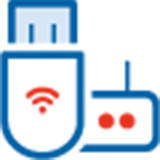
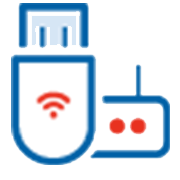
update of catOfDev

diff --git a/2nd delivery/WEBSITE/style/catOfDev.css b/2nd delivery/WEBSITE/style/catOfDev.css
@@ -65,43 +65,39 @@ body{
 
 #dev{
     position: relative;
-    padding-top: 1%;
+    padding-top: 1.5%;
     left: 30%;
 }
 
 #modem{
     position: relative;
-    padding-top: 1%;
+    margin-top: 6%;
     left: 30%;
-    width:40%;
+    width:38.2%;
     height: auto;
-    padding-bottom: 7%;
 }
 
 #tv{
     position: relative;
     left: 45%;
-    padding-bottom: 0.5%;
+    padding-bottom: 3%;
 }
 
 #outlet{
     position: relative;
     left: 30%;
-    padding-bottom: 2%;
-    padding-top: 2%;
+    padding-bottom: 3%;
 }
 
 .text2{
     position: relative;
     text-align: center;
-    vertical-align: middle;
-    padding-left: 25%;
+    padding-left: 20%;
 }
 
 .text3{
     position: relative;
     text-align: center;
-    vertical-align: middle;
     padding-right: 20%;
 }
 
@@ -111,6 +107,8 @@ hr{
     border: 0;
     height: 1px; 
     margin: 0 0 0 0;
+    width: 96%;
+    margin-left: 2%;
 }
 
 .verticalLine {

diff --git a/2nd delivery/WEBSITE/pages/CategoriesOfDevice.html b/2nd delivery/WEBSITE/pages/CategoriesOfDevice.html
@@ -54,16 +54,19 @@
         <hr>
       <div class="row">
          <div class="col-sm-6">
+             <br>
                <h3 class="text2" style="color:#0b3d89">TV and Smart Living</h3>
                <img id="tv" src="../img/TV.png" >
          </div>
          <div class="col-sm-6">
              <div class="verticalLine">
+                 <br>
                <h3 class="text3" style="color:#0b3d89">Outlet</h3>
                <img id="outlet" src="../img/Outlet.png" > 
              </div>
          </div>
-      </div>    
+      </div> 
+        <br>
     </div>    
 </body>
 </html>
